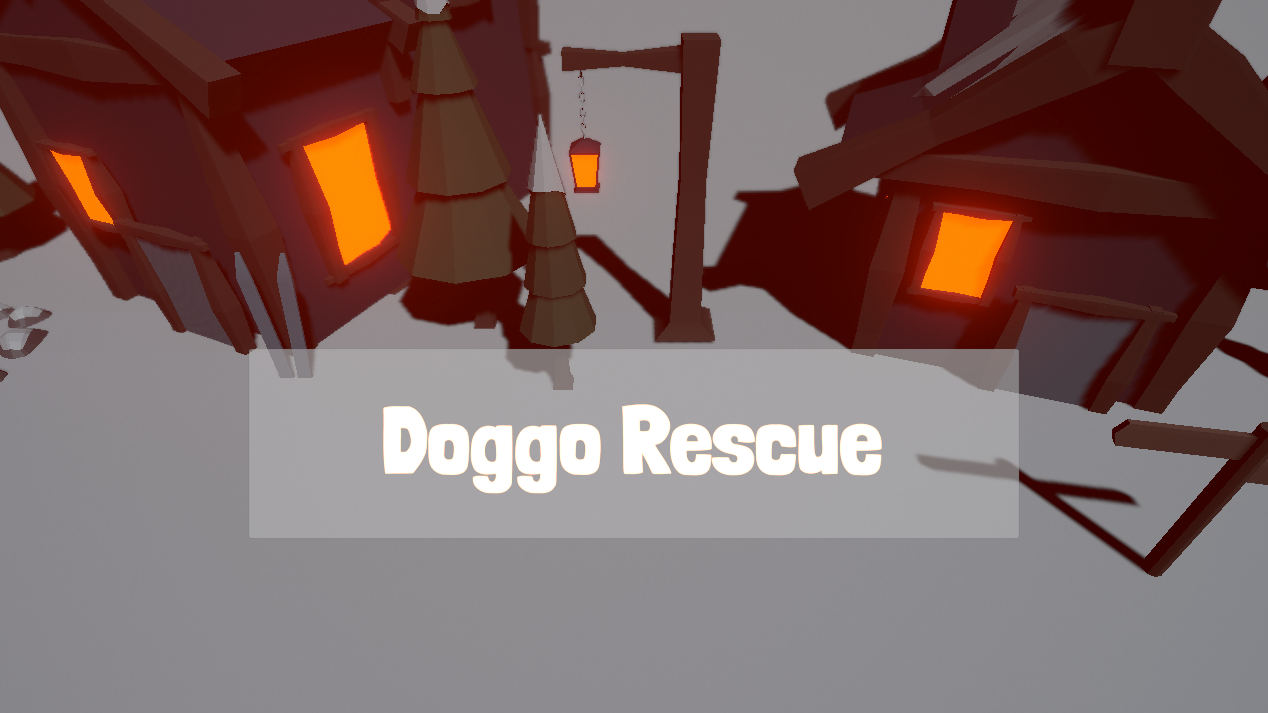
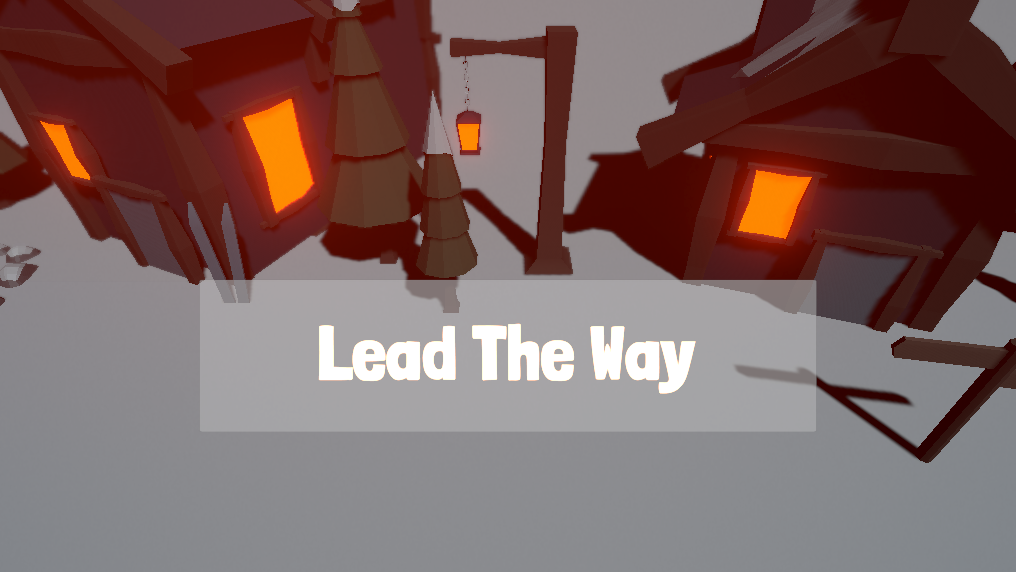
added main projects and radio to game jams, removed split :cry:

Changed region(s): [[0.3051, 0.5647, 0.7018, 0.7133]]

diff --git a/index.html b/index.html
@@ -25,16 +25,12 @@
         <div class="title"><p>About Me</p></div>
         <div class="about">
             <p>
-                I am currently wrapping up my final semester at <strong>University of Wisconsin - Whitewater</strong>,
-                where I will be graduating with a BS in
+                I have just finished up my final semester at <strong>University of Wisconsin - Whitewater</strong>,
+                where I graduated with a Bachelor of Science in
                 <br />&emsp;&emsp;-<strong class="tall">Media Arts and Game Development: Communication/Gaming</strong>,
                 <br />&emsp;&emsp;-<strong class="tall">Mathematics: Pure Mathematics</strong>, and
                 <br />&emsp;&emsp;-<strong class="tall">Computer Science</strong>.
                 <br />I am proud to have been on the Dean's list every semester and to be graduating with a 3.9 GPA overall and within each major.
-            </p>
-            <p>
-                I have also been awarded the best student in MAGD at UW Whitewater!<br /> Check out the video on
-                <a target="_blank" href="https://www.facebook.com/UWWCommDept/videos/461378928388375?t=540" title="Best in Major Awards, Spring 2021">facebook</a>.
             </p>
             <p>
                 During my time in college, I have strived to gain as much experience as I was able. From interships, to study abroad (gone remote) projects, to numerous game jams,
@@ -93,6 +89,37 @@
         <div class="title"><p>Game<br />Projects</p></div>
         <div>
             <div class="project">
+                <a id="project5" class="projectImg" href="https://lebrra.itch.io/online-party-game" target="_blank"></a>
+                <div class="projectDesc">
+                    <h4><a href="https://lebrra.itch.io/online-party-game" target="_blank">Online Party Game</a> - Senior Project</h4>
+                    <p>
+                        Online Party Game explains itself; it is a Mario Party-inspired online board game for 2-6 players. 
+                        The game's current state is fairly simple, but we left a lot of room for additions and improvments coming this summer.
+                    </p>
+                    <p>
+                        Using Wisconsin (below) as a reference, I wanted to challenge myself with another online game. 
+                        With the foundation set, I plan on testing the limits of real-time online connectivity within the minigames. 
+                    </p>
+                    <p><strong>- Spring/Summer 2021</strong></p>
+                </div>
+            </div>
+
+            <div class="project">
+                <a id="project6" class="projectImg" href="https://lebrra.itch.io/wisconsin" target="_blank"></a>
+                <div class="projectDesc">
+                    <h4><a href="https://lebrra.itch.io/wisconsin" target="_blank">Wisconsin</a> - Independent Project</h4>
+                    <p>
+                        Wisconsin is an online card game based off my family card game called Michigan.
+                        I created this project with my professor Dr. Nick Hwang to give my family a way to play their card game remotely during COVID-19.
+                    </p>
+                    <p>
+                        Together we learned a lot about server integration in Unity. We plan on getting Wisconsin to app stores as soon as possible.
+                    </p>
+                    <p><strong>- Fall 2020/Spring 2021</strong></p>
+                </div>
+            </div>
+
+            <div class="project">
                 <a id="project1" class="projectImg" href="https://lebrra.itch.io/end-of-the-party" target="_blank"></a>
                 <div class="projectDesc">
                     <h4><a href="https://lebrra.itch.io/end-of-the-party" target="_blank">End of the Party</a> - Senior Project</h4>
@@ -104,22 +131,6 @@
                         I also created the functionality of all player abilities, all UI functionality, and all the different menu systems.
                     </p>
                     <p><strong>- Fall 2020</strong></p>
-                </div>
-            </div>
-
-            <div class="project">
-                <a id="project2" class="projectImg" href="https://wesmcw.itch.io/split" target="_blank"></a>
-                <div class="projectDesc">
-                    <h4><a href="https://wesmcw.itch.io/split" target="_blank">Split</a> - Game Jam Continuation</h4>
-                    <p>
-                        Spilt is a local co-op puzzle game created during a 48 hour game jam.
-                        This project was continued, won Best in Show at the 2020 UW-Whitewater MAGD Expo, and was submitted to IndieCade!
-                    </p>
-                    <p>
-                        I created the mirror effect in the background of both player screens, as well as the functionality of the title menus.
-                        I also created the endless mode, which is unlocked after getting all the collectibles in every level!
-                    </p>
-                    <p><strong>- Spring 2020</strong></p>
                 </div>
             </div>
 
@@ -182,7 +193,11 @@
                     <strong> - Spring 2020</strong>
                 </p>
             </div>
-
+        </div>
+    </section>
+    <section>
+        <div class="title"></div>
+        <div class="otherProjects">
             <div>
                 <a id="otherProject3" class="otherImg" href="https://workspace.circuitmaker.com/Projects/Details/LeahB/Clock-Watchers-Game" target="_blank" title="Video Documentation"></a>
                 <p id="text3" class="otherText">
@@ -191,11 +206,7 @@
                     <strong> - Fall 2020</strong>
                 </p>
             </div>
-        </div>
-    </section>
-    <section>
-        <div class="title"></div>
-        <div class="otherProjects">
+
             <div>
                 <a id="otherProject4" class="otherImg" href="https://www.youtube.com/watch?v=zMBddzTA6gU" target="_blank" title="Video Documentation"></a>
                 <p id="text4" class="otherText">
@@ -204,6 +215,7 @@
                     <strong> - Spring 2021</strong>
                 </p>
             </div>
+
         </div>
     </section>
 

diff --git a/gamejams.html b/gamejams.html
@@ -25,10 +25,28 @@
         <div class="title"><p>Games</p></div>
         <div>
             <div><i id="italics">*Some images/gifs are large and take a bit to load</i></div>
+            
+            <div class="project">
+                <a id="jam16" class="projectImg" href="https://lebrra.itch.io/1029-dimension-shifter" target="_blank"></a>
+                <div class="projectDesc">
+                    <h4><a href="https://lebrra.itch.io/1029-dimension-shifter" target="_blank" title="View on itch.io">102.9 Dimention Shifter</a> - GAMED Jam</h4>
+                    <p>
+                        <i><strong>- Transmission/Shatter</strong></i>
+                    </p>
+                    <p>
+                        <strong>Date: </strong> March 5-7, 2021<br />
+                        <strong>Time: </strong> 48 hours
+                    </p><br />
+                    <p>
+                        Idle puzzle platformer playable on Windows and Mac
+                    </p>
+                </div>
+            </div>
+            
             <div class="project">
                 <a id="jam15" class="projectImg" href="https://squidmyers33.itch.io/doggo-rescue" target="_blank"></a>
                 <div class="projectDesc">
-                    <h4><a href="https://squidmyers33.itch.io/doggo-rescue" target="_blank" title="View on itch.io">Doggo Rescue</a> - <a href="https://globalgamejam.org/2021/games/doggo-rescue-7" target="_blank" title="View on globalgamejam.org">Global Game Jam 2021</a></h4>
+                    <h4><a href="https://squidmyers33.itch.io/doggo-rescue" target="_blank" title="View on itch.io">Lead The Way</a> - <a href="https://globalgamejam.org/2021/games/doggo-rescue-7" target="_blank" title="View on globalgamejam.org">Global Game Jam 2021</a></h4>
                     <p>
                         <i><strong>- Lost and Found</strong></i>
                     </p>
@@ -140,9 +158,10 @@
                     <p>
                         <strong>Date: </strong> February 28 - March 2, 2020<br />
                         <strong>Time: </strong> 48 hours
-                    </p><br />
-                    <p>
-                        Split-Screen<i>(hah)</i> puzzle platformer on itch.io
+                    </p>
+                    <p><br />
+                        Split-Screen<i>(hah)</i> puzzle platformer on itch.io<br /><br />
+                        Split was awarded Best in Show in the 2020 MAGD Expo at UW-Whitewater and was submitted to IndieCade!
                     </p>
                 </div>
             </div>

diff --git a/styleSheet.css b/styleSheet.css
@@ -232,7 +232,19 @@ a.gjLink {
     content: url('GameJams/CosmicConflict.gif');
 }
 
+#project5 {
+    content: url('Projects/OPG.png');
+}
+#project5:hover {
+    content: url('Projects/OPGGameplay.gif');
+}
 
+#project6 {
+    content: url('Projects/WI.png');
+}
+#project6:hover {
+    content: url('Projects/WIGameplay.gif');
+}
 
 /* Icons: */
 #icon1{
@@ -392,4 +404,11 @@ a.otherImg:hover + #text4 {
 }
 #jam15:hover {
     content: url('GameJams/DoggoRescue.gif');
+}
+
+#jam16 {
+    content: url('GameJams/DimentionShifter.png');
+}
+#jam16:hover {
+    content: url('GameJams/DimentionShifter.gif');
 }
